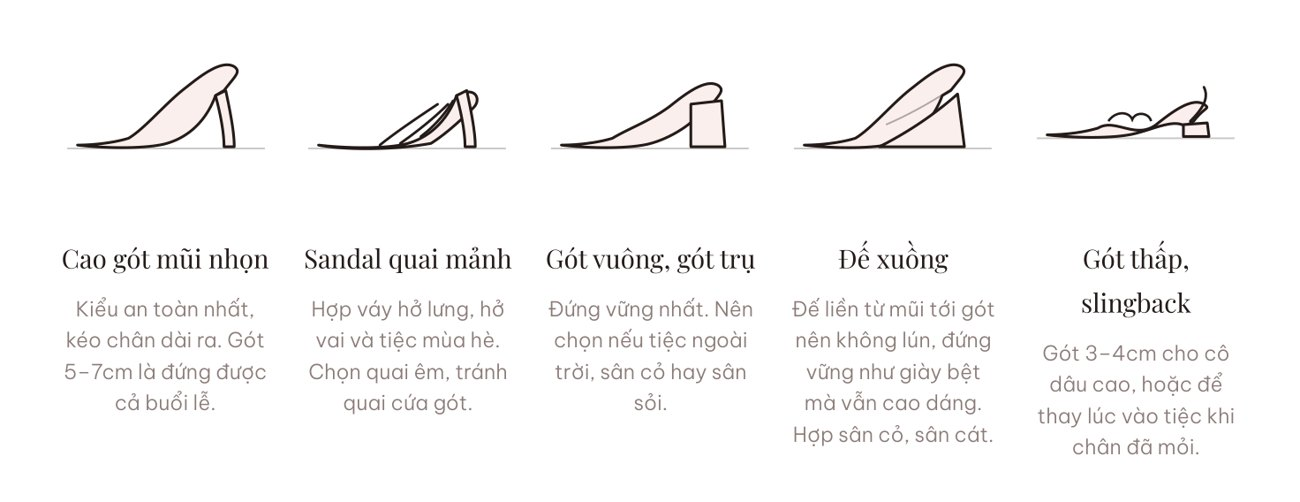
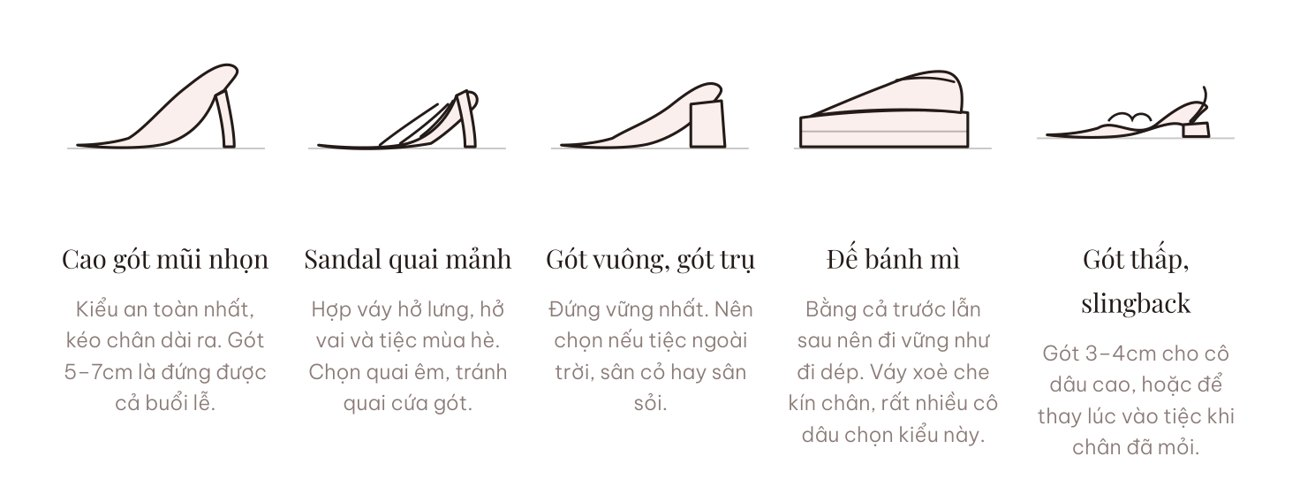
Dress Guide: doi de xuong thanh de banh mi (bang truoc bang sau, di duoi vay xoe)

Changed region(s): [[0.6154, 0.5976, 0.7692, 0.8964], [0.6154, 0.1195, 0.7692, 0.2988], [0.6154, 0.4781, 0.7385, 0.5378]]

diff --git a/dress-guide.html b/dress-guide.html
@@ -4,7 +4,7 @@
 <meta charset="utf-8">
 <meta name="viewport" content="width=device-width,initial-scale=1">
 <meta name="description" content="Cẩm nang tặng cô dâu: 7 điều cần biết trước khi chọn váy cưới — Dolinhanh Bridal.">
-<script>window.__ANH__=["dress-guide/t01.jpg?v=w4", "dress-guide/t02.jpg?v=w4", "dress-guide/t03.jpg?v=w4", "dress-guide/t04.jpg?v=w4", "dress-guide/t05.jpg?v=w4", "dress-guide/t06.jpg?v=w4", "dress-guide/t07.jpg?v=w4", "dress-guide/t08.jpg?v=w4", "dress-guide/t09.jpg?v=w4", "dress-guide/t10.jpg?v=w4", "dress-guide/t11.jpg?v=w4", "dress-guide/t12.jpg?v=w4", "dress-guide/t13.jpg?v=w4", "dress-guide/t14.jpg?v=w4", "dress-guide/t15.jpg?v=w4", "dress-guide/t16.jpg?v=w4", "dress-guide/t17.jpg?v=w4", "dress-guide/t18.jpg?v=w4", "dress-guide/t19.jpg?v=w4", "dress-guide/t20.jpg?v=w4"];window.__DIEM__=[{"p": 4, "x": 0.1734, "y": 0.205, "w": 0.1416, "h": 0.0173, "nhan": "Chuẩn bị trước buổi thử", "ten": "Đồ lót nào mặc được?", "mo": "Nguyên tắc chung: màu nude, không quai, không gọng to, không đường viền. Bốn kiểu trong hình đều dùng được cho gần như mọi mẫu váy. Phần lớn váy cưới đã có corset nâng và mút đệm ngực khâu sẵn — nhiều cô dâu chỉ mặc quần lót nude là đủ.", "anh": "dress-guide/hs-dolot.jpg?v=w4", "toi": 5}, {"p": 4, "x": 0.2255, "y": 0.2635, "w": 0.3537, "h": 0.0173, "nhan": "Chuẩn bị trước buổi thử", "ten": "Giày nào đi cùng váy cưới?", "mo": "Năm kiểu trên đều hợp váy cưới. Gót 5–7cm là mức phần lớn cô dâu chọn — đủ dáng mà vẫn đứng được cả buổi. Tiệc ngoài trời hay sân cỏ thì đổi sang gót vuông, gót trụ hoặc đế xuồng, vì gót nhọn lún xuống cỏ rất khó đi. Chưa mua giày cưới thì mang tạm một đôi cao tương đương khi đi thử váy.", "anh": "dress-guide/hs-giay.jpg?v=w4", "toi": 6}, {"p": 4, "x": 0.3357, "y": 0.4127, "w": 0.1988, "h": 0.0173, "nhan": "Chuẩn bị trước buổi thử", "ten": "Vì sao lại là 5 mẫu?", "mo": "Năm mẫu vừa đủ để so bốn dáng cơ bản và thêm một mẫu “lạ” cho biết, mà không loạn. Gửi trước danh sách cho studio để váy được treo sẵn — đỡ mất ba mươi phút đầu buổi chỉ để đi tìm váy."}];</script>
+<script>window.__ANH__=["dress-guide/t01.jpg?v=w5", "dress-guide/t02.jpg?v=w5", "dress-guide/t03.jpg?v=w5", "dress-guide/t04.jpg?v=w5", "dress-guide/t05.jpg?v=w5", "dress-guide/t06.jpg?v=w5", "dress-guide/t07.jpg?v=w5", "dress-guide/t08.jpg?v=w5", "dress-guide/t09.jpg?v=w5", "dress-guide/t10.jpg?v=w5", "dress-guide/t11.jpg?v=w5", "dress-guide/t12.jpg?v=w5", "dress-guide/t13.jpg?v=w5", "dress-guide/t14.jpg?v=w5", "dress-guide/t15.jpg?v=w5", "dress-guide/t16.jpg?v=w5", "dress-guide/t17.jpg?v=w5", "dress-guide/t18.jpg?v=w5", "dress-guide/t19.jpg?v=w5", "dress-guide/t20.jpg?v=w5"];window.__DIEM__=[{"p": 4, "x": 0.1734, "y": 0.205, "w": 0.1416, "h": 0.0173, "nhan": "Chuẩn bị trước buổi thử", "ten": "Đồ lót nào mặc được?", "mo": "Nguyên tắc chung: màu nude, không quai, không gọng to, không đường viền. Bốn kiểu trong hình đều dùng được cho gần như mọi mẫu váy. Phần lớn váy cưới đã có corset nâng và mút đệm ngực khâu sẵn — nhiều cô dâu chỉ mặc quần lót nude là đủ.", "anh": "dress-guide/hs-dolot.jpg?v=w5", "toi": 5}, {"p": 4, "x": 0.2255, "y": 0.2635, "w": 0.3537, "h": 0.0173, "nhan": "Chuẩn bị trước buổi thử", "ten": "Giày nào đi cùng váy cưới?", "mo": "Năm kiểu trên đều hợp váy cưới. Gót 5–7cm là mức phần lớn cô dâu chọn — đủ dáng mà vẫn đứng được cả buổi. Váy xoè che kín chân thì đế bánh mì là kiểu đi vững nhất. Tiệc ngoài trời hay sân cỏ nên tránh gót nhọn vì lún xuống cỏ rất khó đi. Chưa mua giày cưới thì mang tạm một đôi cao tương đương khi đi thử váy.", "anh": "dress-guide/hs-giay.jpg?v=w5", "toi": 6}, {"p": 4, "x": 0.3357, "y": 0.4127, "w": 0.1988, "h": 0.0173, "nhan": "Chuẩn bị trước buổi thử", "ten": "Vì sao lại là 5 mẫu?", "mo": "Năm mẫu vừa đủ để so bốn dáng cơ bản và thêm một mẫu “lạ” cho biết, mà không loạn. Gửi trước danh sách cho studio để váy được treo sẵn — đỡ mất ba mươi phút đầu buổi chỉ để đi tìm váy."}];</script>
 </head>
 <body>
 <title>The Bride's Dress Guide</title>
